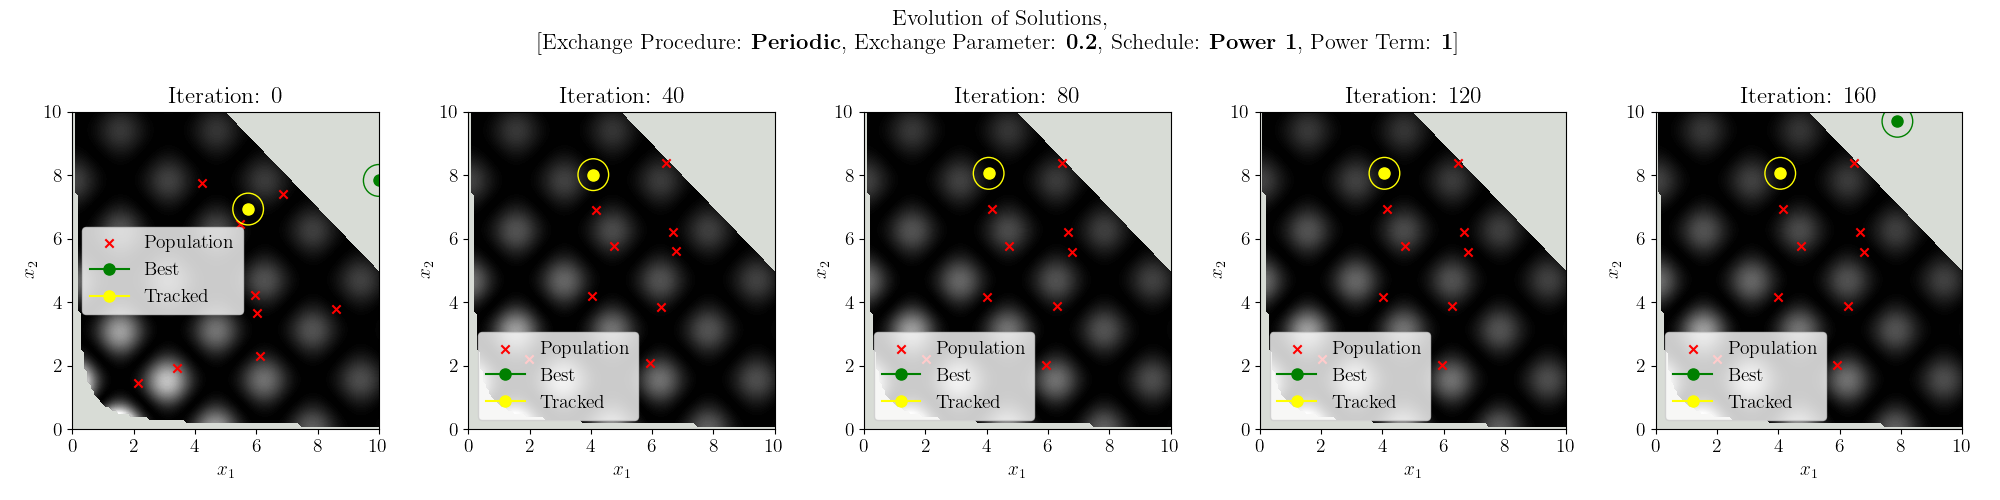
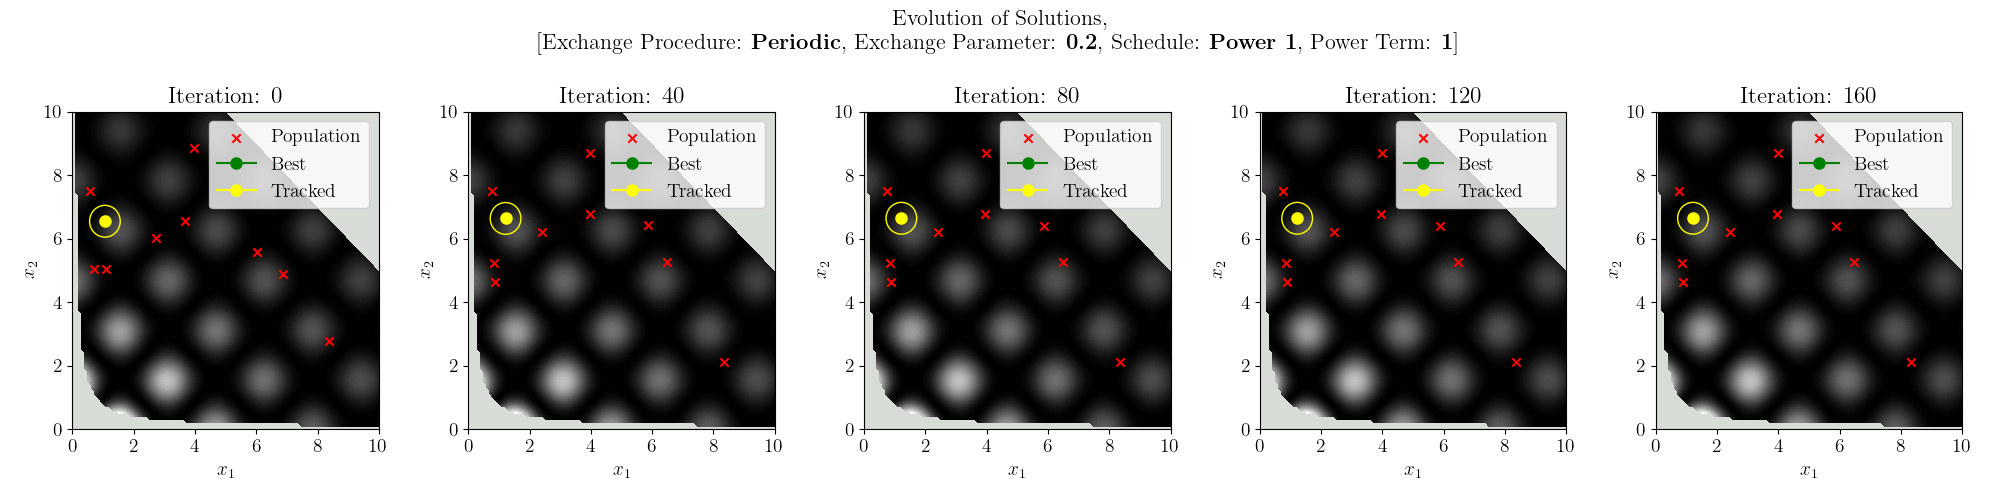
working on it

diff --git a/src/algorithms/PT/PT.py b/src/algorithms/PT/PT.py
@@ -101,12 +101,12 @@ class ParallelTempering():
         #Initialise in feasible region
         for i in range(self.num_replicas):
             for j in range(self.num_x_per_replica):
-                while not satisfy_constraints(self.current_solutions[i, j]):
+                while not satisfy_constraints(self.scale_up(self.current_solutions[i, j])):
                     self.current_solutions[i, j] = np.random.uniform(self.lb, self.ub, self.x_dim)
 
         # Diagonal matrix of max. allowable step sizes for individual
         # Step for each solution
-        D = np.eye(self.x_dim)
+        D = np.eye(self.x_dim) * 0.75
 
         # Need a matrix of these for each solution in each replica
         self.max_change = np.tile(D, (self.num_replicas, self.num_x_per_replica, 1, 1))
@@ -127,7 +127,7 @@ class ParallelTempering():
         # Return best solution
         return all_solutions[best_idx]
 
-    def metropolis_criterion(self, x, x_new, T):
+    def metropolis_criterion(self, X, X_new, T):
         """
         Metropolis criterion for parallel tempering algorithm.
         Acceptance probability as advised by Simulated Annealing lecture notes (Parks et al.)
@@ -140,6 +140,10 @@ class ParallelTempering():
         Returns:
         - bool: Whether to accept new solution or not
         """
+        # Scale up solutions to original range
+        x = self.scale_up(X)
+        x_new = self.scale_up(X_new)
+
         # If constraints are to be satisfied, check if new solution satisfies constraints
         if self.constraints:
             if not satisfy_constraints(x_new):
@@ -149,8 +153,8 @@ class ParallelTempering():
         d = np.linalg.norm(x_new - x)
 
         # Function evaluations, raised to power of temperature, aim to maximise function
-        f_old = - self.func(self.scale_up(x))
-        f_new = - self.func(self.scale_up(x_new))
+        f_old = self.func(x)
+        f_new = self.func(x_new)
 
         den = T*d if T*d != 0 else 1e-8
 
@@ -169,7 +173,7 @@ class ParallelTempering():
         # Update max. allowable step size
         self.max_change[i][j] = (1-self.alpha) * self.max_change[i][j] + self.alpha * self.omega * R
 
-    def update_solutions(self):
+    def update_chains(self):
         """
         One step of the algorithm. Update solutions for each replica.
         """
@@ -207,7 +211,7 @@ class ParallelTempering():
 
         avg = np.mean([self.func(x) for x in all_solutions])
         best_solution = self.get_best_solution()
-        min = -self.func(best_solution)
+        min = - self.func(best_solution)
 
         return avg, min
 

diff --git a/PT_TuningExperiments.py b/PT_TuningExperiments.py
@@ -14,8 +14,8 @@ FUNCTION = KBF_function
 X_DIM = 2
 NUM_REPLICAS = 10
 NUM_SOL_PER_REPLICA = 10 # 250 // NUM_REPLICAS # 250 solutions overall, same as CGA population
-EXCHANGE_PROCEDURE = 'Periodic'
-EXCHANGE_PARAM = 0.2
+EXCHANGE_PROCEDURE = 'Stochastic'
+EXCHANGE_PARAM = 0.05
 TEMP_TYPE = 'Power'
 PROGRESSION_POWER = 1
 NUM_ITERS = 200
@@ -76,10 +76,10 @@ for iter in tqdm(range(NUM_ITERS)):
         plot_num = (iter // PLOT_EVERY)
         idx = plot_num % num_plots
         axs[idx].set_title(f'Iteration: {iter}')
-        final_replica = PT.current_solutions[-1]
+        final_replica = PT.scale_up(PT.current_solutions[-1])
         plot_population(final_replica, axs[idx], best=PT.get_best_solution(), last=final_replica[-1])
     
-    PT.update_solutions()
+    PT.update_chains()
     PT.replica_exchange(iter)
 
     # Update fitness arrays

diff --git a/src/algorithms/PT/replica_exchange_functions.py b/src/algorithms/PT/replica_exchange_functions.py
@@ -23,7 +23,7 @@ def swap(PT):
                 PT.metropolis_criterion(PT.current_solutions[i, j], PT.current_solutions[i + 1, j], T_1),
                 PT.metropolis_criterion(PT.current_solutions[i+1, j], PT.current_solutions[i , j], T_2),
             ]
-
+            
             # Only swap solutions if both directions satisfy Metropolis criterion
             if all(check_criterion):
 
